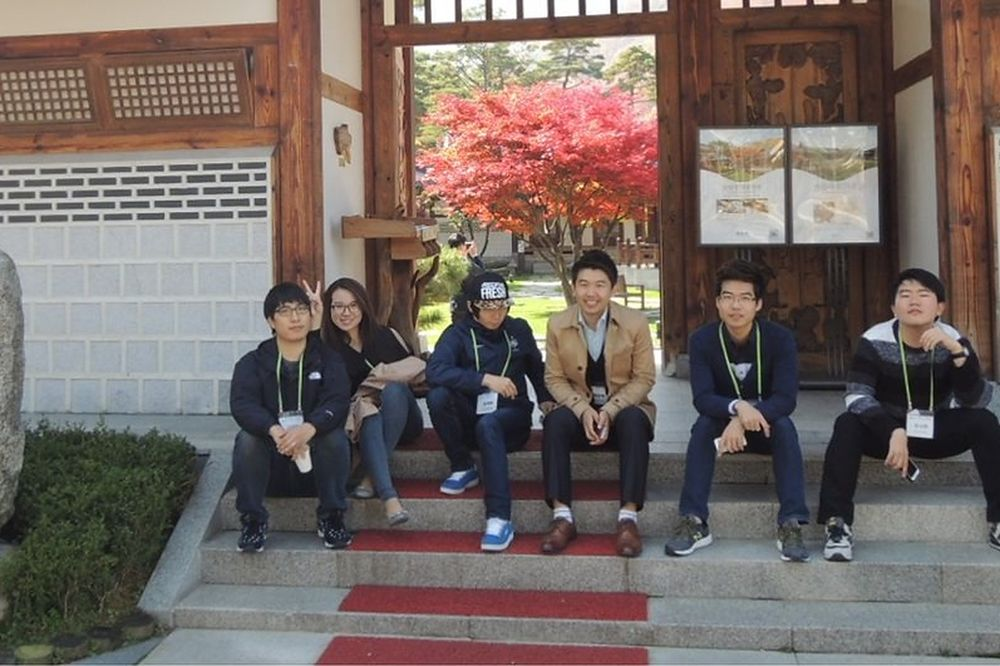
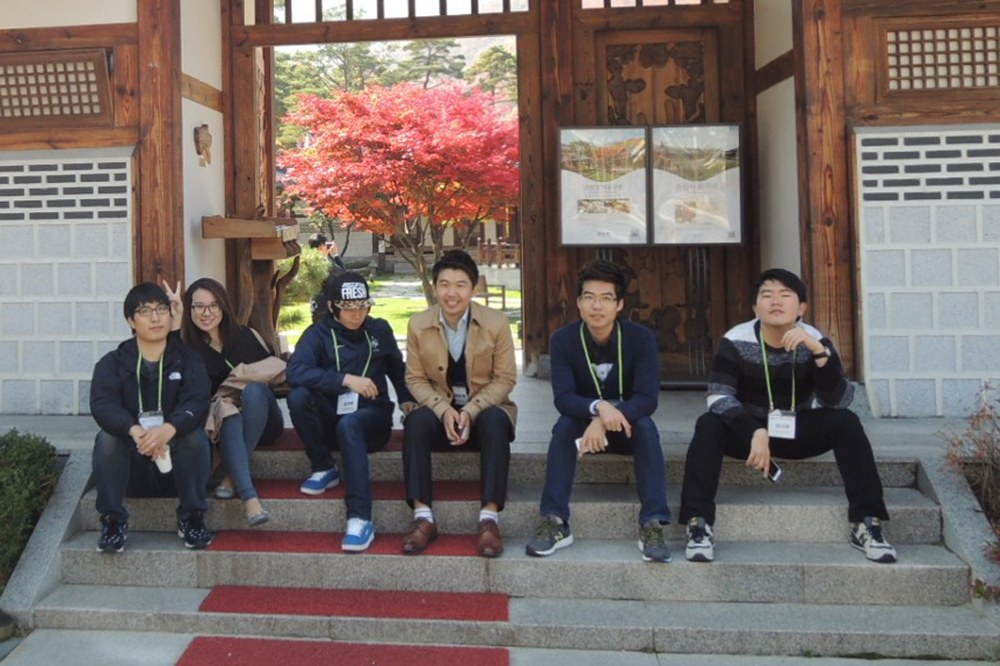
Replace the 2014 Unamjeong gallery photo with the newly uploaded shot, cropped to remove the white band

diff --git a/gallery/index.html b/gallery/index.html
@@ -197,7 +197,7 @@
 <section class="section gal-year" id="year-2014"><div class="wrap">
   <h2 class="gal-year-head"><span class="gal-year-num">2014</span><span class="gal-year-rule"></span></h2>
   <div class="gallery-grid">
-    <figure class="gallery-card reveal"><button type="button" class="gallery-item" data-gallery-item data-frames='[{&quot;s&quot;: &quot;../assets/gallery/2014-10-unamjeong-1.jpg?v=d35b71bb&quot;, &quot;a&quot;: &quot;Autumn outing, Unamjeong, October 2014&quot;}]' aria-label="Autumn outing, Unamjeong, October 2014 — opens in the viewer"><span class="gal-track"><img class="gal-frame is-active" src="../assets/gallery/thumbs/2014-10-unamjeong-1.jpg?v=d35b71bb" alt="Autumn outing, Unamjeong, October 2014" width="1000" height="666" loading="lazy" decoding="async"></span><span class="zoom"><svg viewBox="0 0 24 24" fill="none" stroke="currentColor" stroke-width="1.8" stroke-linecap="round" stroke-linejoin="round" aria-hidden="true"><path d="M11 19a8 8 0 100-16 8 8 0 000 16zM21 21l-4.3-4.3 M11 8v6M8 11h6"/></svg></span></button><figcaption class="gal-cap"><span class="gal-title">Autumn outing, Unamjeong</span><span class="gal-date">October 2014</span></figcaption></figure>
+    <figure class="gallery-card reveal"><button type="button" class="gallery-item" data-gallery-item data-frames='[{&quot;s&quot;: &quot;../assets/gallery/2014-10-unamjeong-1.jpg?v=76ea9dca&quot;, &quot;a&quot;: &quot;Autumn outing, Unamjeong, October 2014&quot;}]' aria-label="Autumn outing, Unamjeong, October 2014 — opens in the viewer"><span class="gal-track"><img class="gal-frame is-active" src="../assets/gallery/thumbs/2014-10-unamjeong-1.jpg?v=76ea9dca" alt="Autumn outing, Unamjeong, October 2014" width="1000" height="666" loading="lazy" decoding="async"></span><span class="zoom"><svg viewBox="0 0 24 24" fill="none" stroke="currentColor" stroke-width="1.8" stroke-linecap="round" stroke-linejoin="round" aria-hidden="true"><path d="M11 19a8 8 0 100-16 8 8 0 000 16zM21 21l-4.3-4.3 M11 8v6M8 11h6"/></svg></span></button><figcaption class="gal-cap"><span class="gal-title">Autumn outing, Unamjeong</span><span class="gal-date">October 2014</span></figcaption></figure>
     <figure class="gallery-card reveal is-tall"><button type="button" class="gallery-item" data-gallery-item data-frames='[{&quot;s&quot;: &quot;../assets/gallery/2014-07-gwanggyosan-1.jpg?v=5b1aac16&quot;, &quot;a&quot;: &quot;Gwanggyosan hike, July 2014&quot;}]' aria-label="Gwanggyosan hike, July 2014 — opens in the viewer"><span class="gal-track"><img class="gal-frame is-active" src="../assets/gallery/thumbs/2014-07-gwanggyosan-1.jpg?v=5b1aac16" alt="Gwanggyosan hike, July 2014" width="750" height="1000" loading="lazy" decoding="async"></span><span class="zoom"><svg viewBox="0 0 24 24" fill="none" stroke="currentColor" stroke-width="1.8" stroke-linecap="round" stroke-linejoin="round" aria-hidden="true"><path d="M11 19a8 8 0 100-16 8 8 0 000 16zM21 21l-4.3-4.3 M11 8v6M8 11h6"/></svg></span></button><figcaption class="gal-cap"><span class="gal-title">Gwanggyosan hike</span><span class="gal-date">July 2014</span></figcaption></figure>
   </div>
 </div></section>
